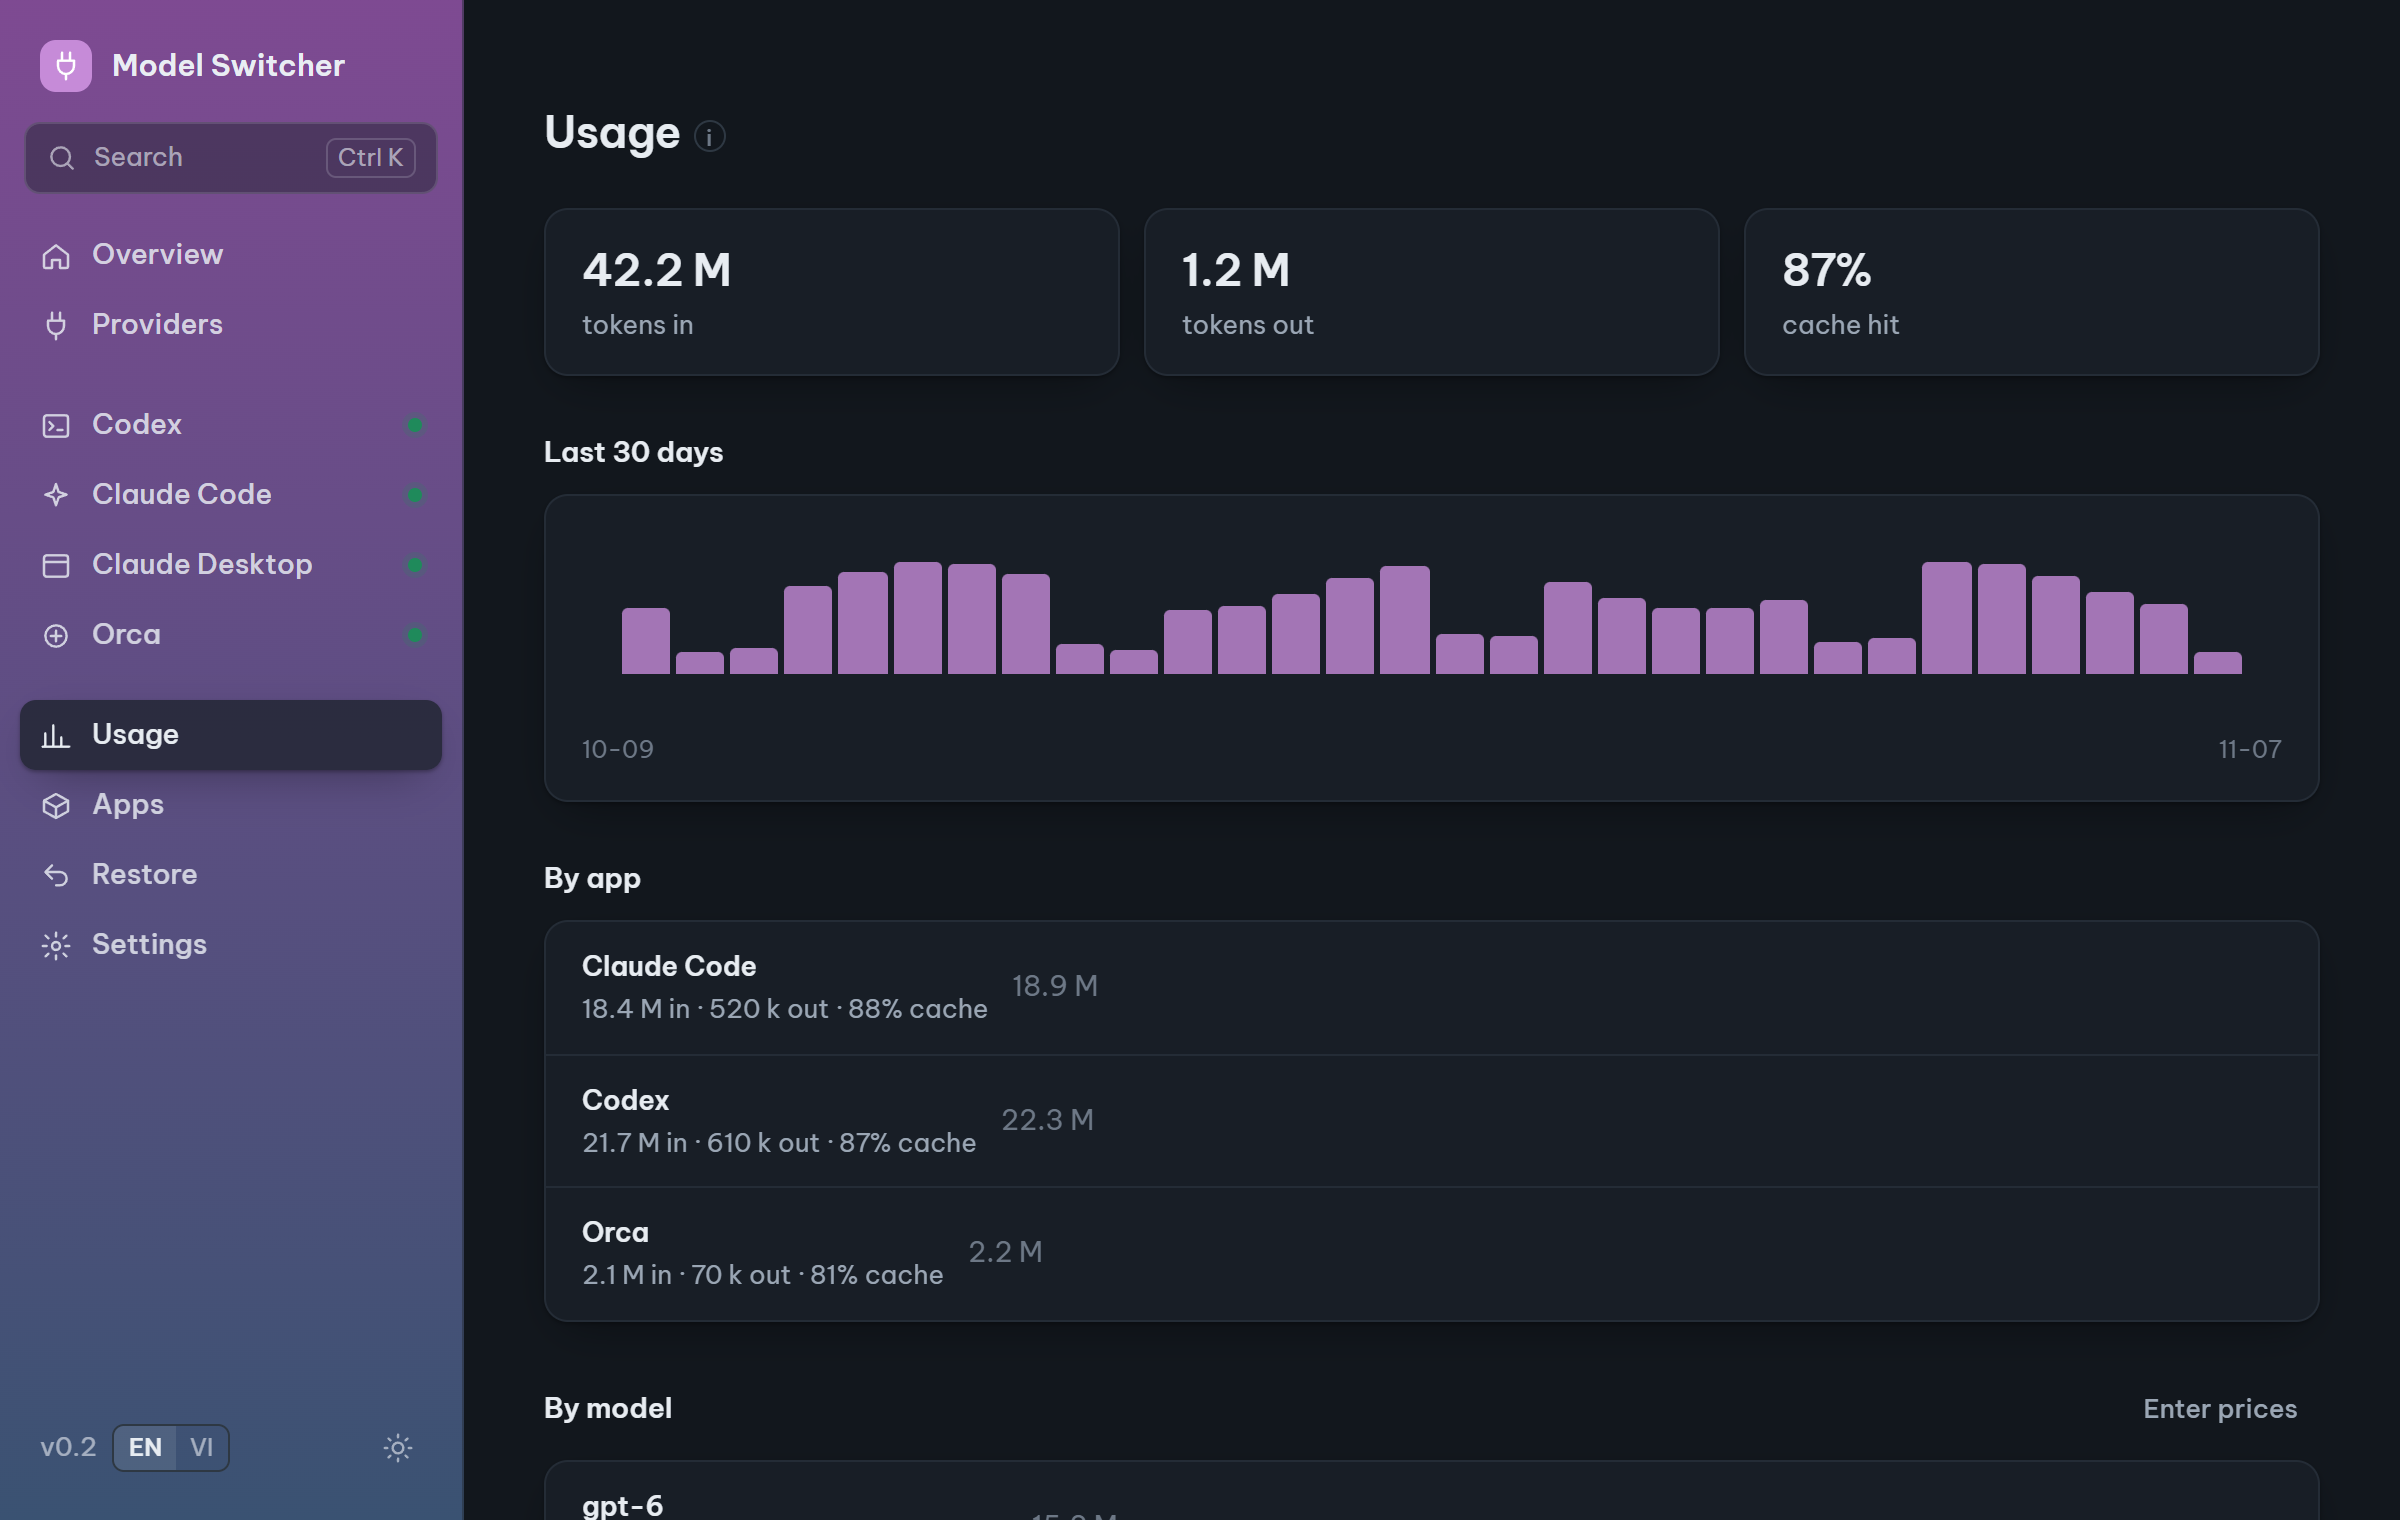
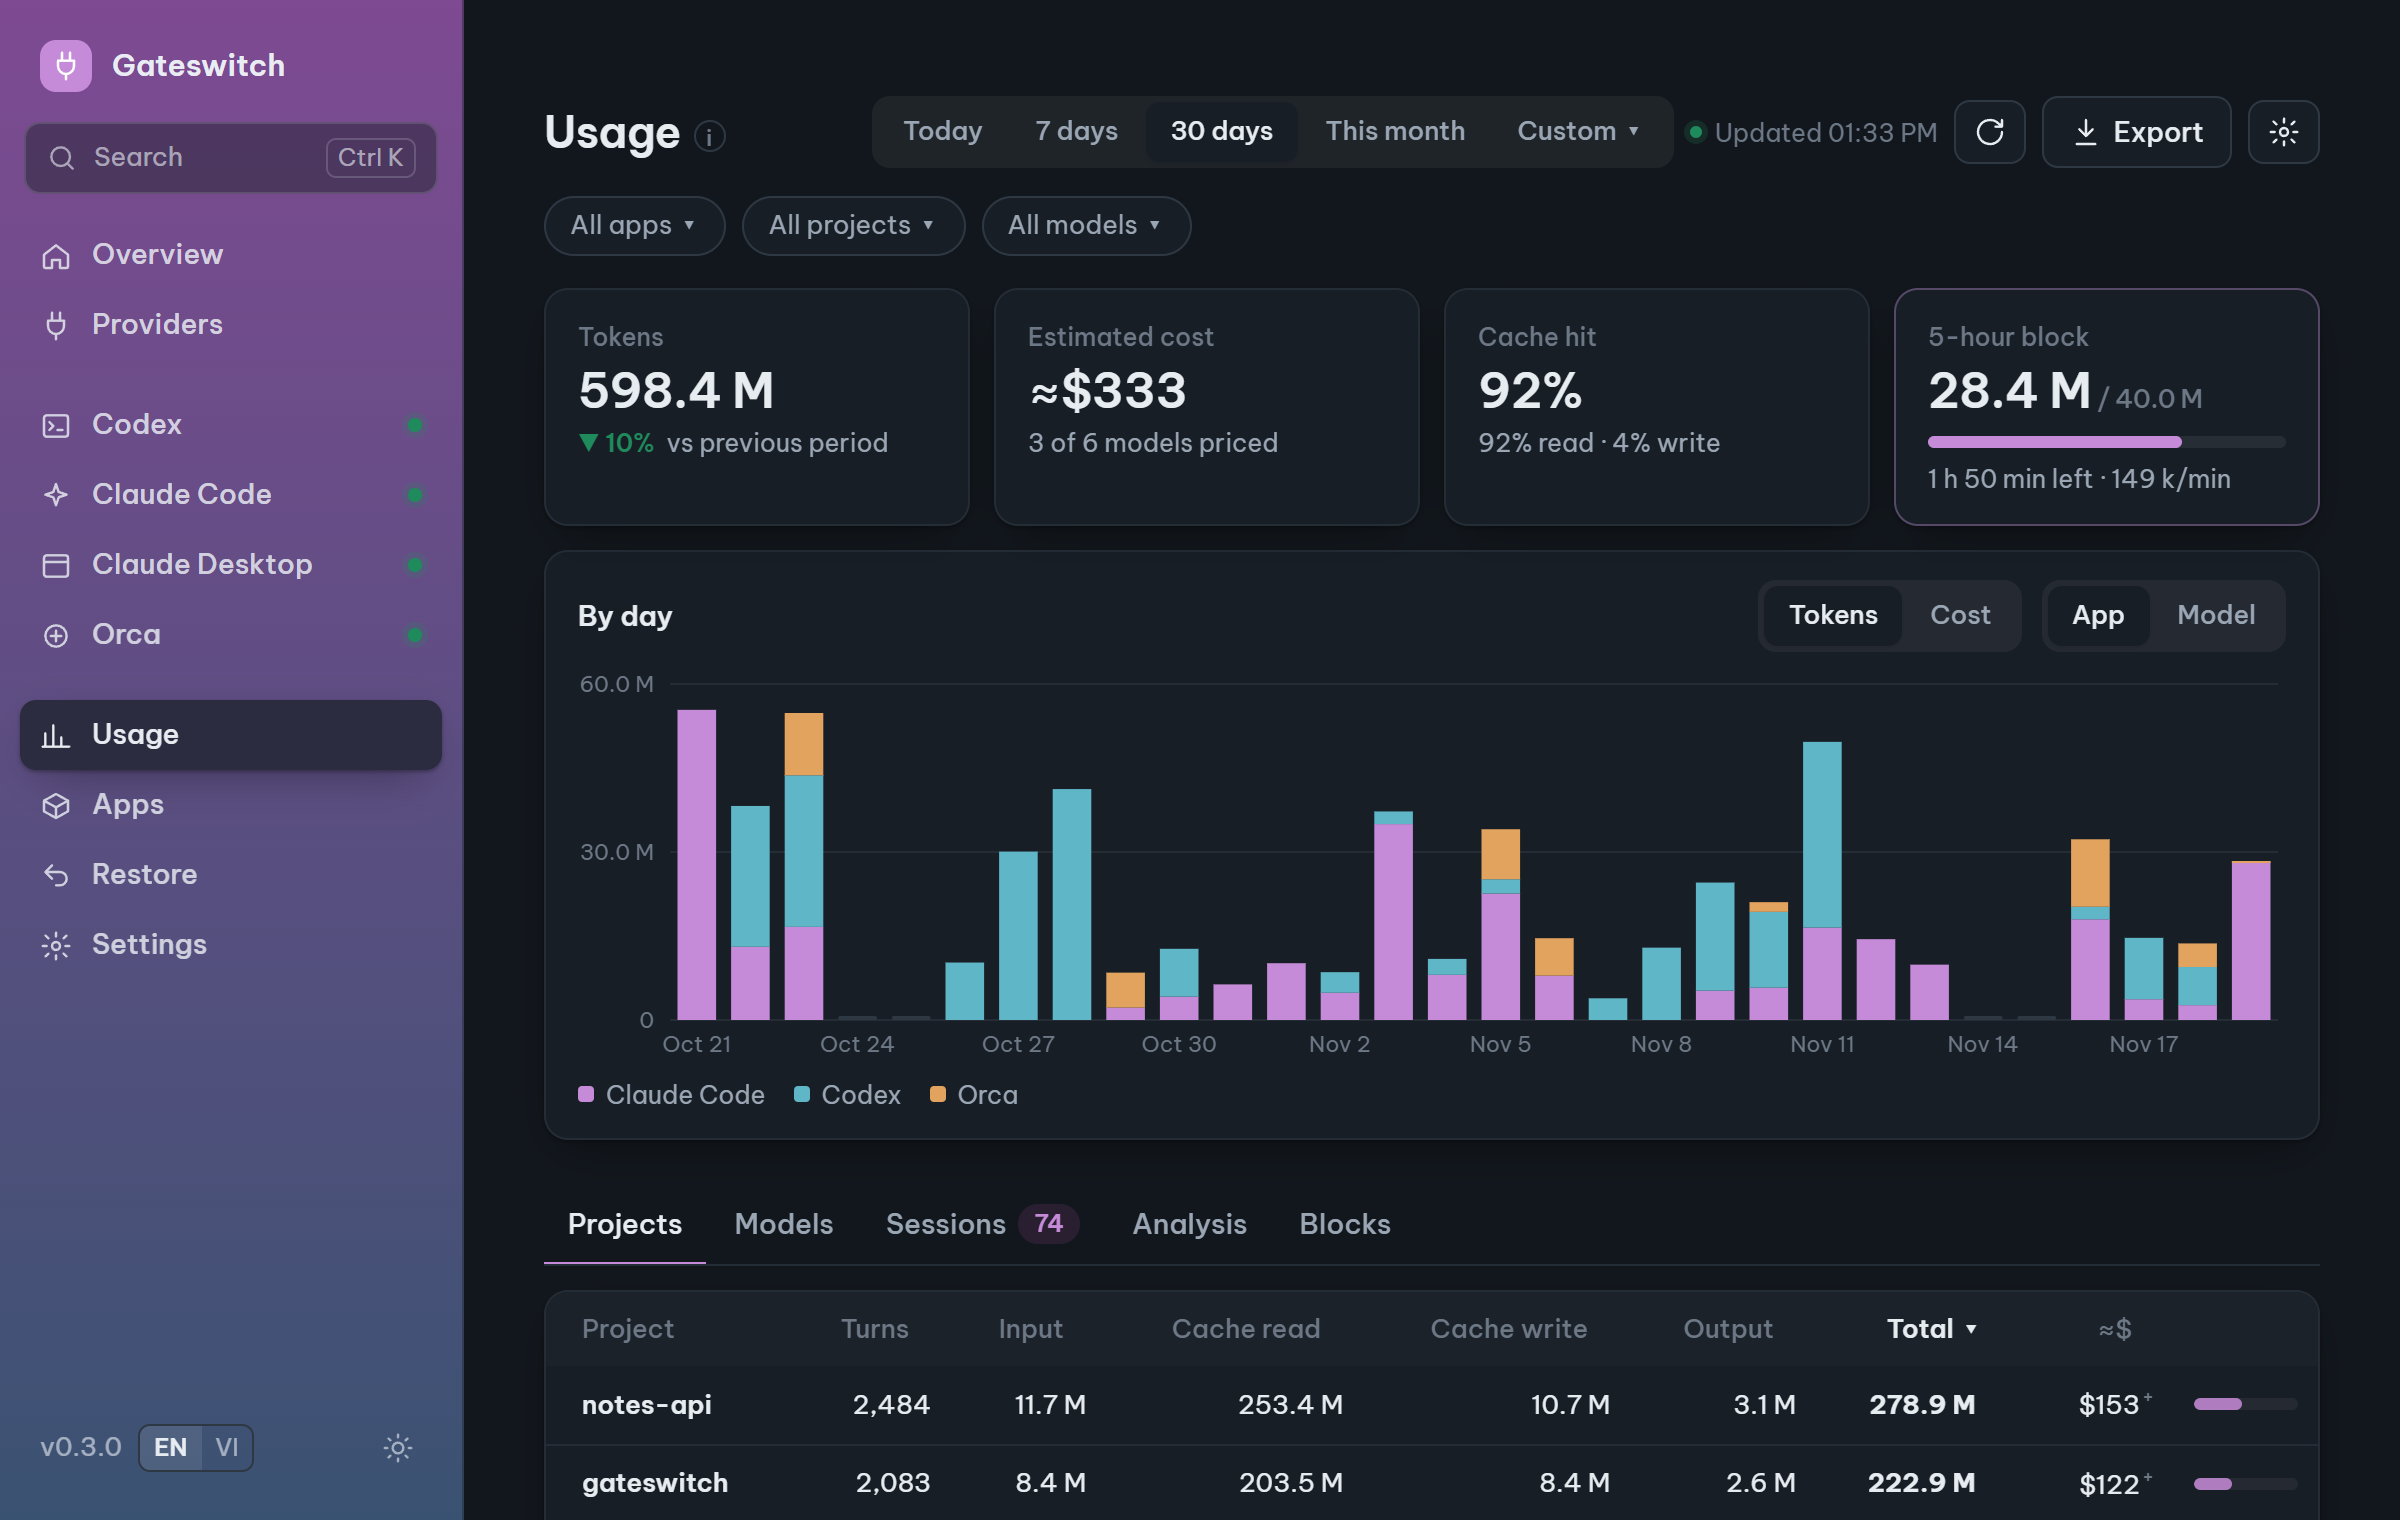
Website and screenshots for 0.3.0
New Usage screenshot (sample data), cards for quota watch, tray and
mini window, and Codex effort levels.

diff --git a/site/index.html b/site/index.html
@@ -207,7 +207,7 @@ footer a:hover{color:var(--ink)}
   <header class="hero">
     <div class="glow" aria-hidden="true"></div>
     <div class="wrap">
-      <a class="pill" href="https://github.com/EK0720/gateswitch/releases/latest" rel="noopener"><b data-i="hero.new">New</b><span data-i="hero.pill">One-click updates, signed and verified</span> →</a>
+      <a class="pill" href="https://github.com/EK0720/gateswitch/releases/latest" rel="noopener"><b data-i="hero.new">New</b><span data-i="hero.pill">0.3: usage dashboard, tray and quota alerts</span> →</a>
       <h1><span data-i="hero.t1">Any AI gateway.</span><br><span class="grad" data-i="hero.t2">Every coding app.</span></h1>
       <p class="sub" data-i="hero.sub">Point Codex, Claude Code, Claude Desktop and Orca at your LiteLLM, OpenRouter or company gateway in one click. Test models first, and undo anything.</p>
       <div class="cta">
@@ -277,8 +277,23 @@ footer a:hover{color:var(--ink)}
         <div class="card media span3 reveal">
           <div class="ico"><svg viewBox="0 0 24 24" fill="none" stroke="currentColor" stroke-width="1.8" stroke-linecap="round" stroke-linejoin="round"><path d="M4 20V10m6 10V4m6 16v-7m4 7H2"/></svg></div>
           <h3 data-i="f.usage.h">Usage without uploads</h3>
-          <p data-i="f.usage.p">Tokens, cache hit rate and cost estimates, read from logs already on your machine.</p>
+          <p data-i="f.usage.p">Tokens, cache hits and estimated cost by app, project, model and session, with 5-hour blocks and export. Read from logs already on your machine, updated live.</p>
           <img src="assets/usage.png" width="2400" height="1520" loading="lazy" alt="Usage page" data-i-alt="alt.usage">
+        </div>
+        <div class="card span2 reveal">
+          <div class="ico"><svg viewBox="0 0 24 24" fill="none" stroke="currentColor" stroke-width="1.8" stroke-linecap="round" stroke-linejoin="round"><path d="M6 8a6 6 0 0 1 12 0c0 7 3 9 3 9H3s3-2 3-9"/><path d="M10.3 21a1.9 1.9 0 0 0 3.4 0"/></svg></div>
+          <h3 data-i="f.quota.h">Know when quota is back</h3>
+          <p data-i="f.quota.p">Out of quota? Gateswitch checks again at the reset time the gateway announces and tells you when the model works again.</p>
+        </div>
+        <div class="card span2 reveal">
+          <div class="ico"><svg viewBox="0 0 24 24" fill="none" stroke="currentColor" stroke-width="1.8" stroke-linecap="round" stroke-linejoin="round"><rect x="3" y="4" width="18" height="12" rx="2"/><path d="M8 20h8M12 16v4"/></svg></div>
+          <h3 data-i="f.tray.h">Tray and mini window</h3>
+          <p data-i="f.tray.p">Today's tokens in the system tray, an always-on-top mini window, and alerts at 80% and 100% of a 5-hour block. All off until you turn them on.</p>
+        </div>
+        <div class="card span2 reveal">
+          <div class="ico"><svg viewBox="0 0 24 24" fill="none" stroke="currentColor" stroke-width="1.8" stroke-linecap="round" stroke-linejoin="round"><path d="M4 21v-7M4 10V3M12 21v-9M12 8V3M20 21v-5M20 12V3M1 14h6M9 8h6M17 16h6"/></svg></div>
+          <h3 data-i="f.effort.h">Effort levels for Codex</h3>
+          <p data-i="f.effort.p">Turn on low to xhigh in Codex's /model menu for gateways that accept reasoning effort. The capability test tells you if yours does.</p>
         </div>
       </div>
     </div>
@@ -354,7 +369,7 @@ footer a:hover{color:var(--ink)}
 (() => {
   const VI = {
     "nav.features":"Tính năng","nav.how":"Cách dùng","nav.faq":"Hỏi đáp","nav.download":"Tải về",
-    "hero.new":"Mới","hero.pill":"Cập nhật một click, có ký và kiểm tra",
+    "hero.new":"Mới","hero.pill":"0.3: bảng thống kê, khay hệ thống và báo hồi quota",
     "hero.t1":"Gateway AI nào cũng được.","hero.t2":"Mọi app lập trình.",
     "hero.sub":"Trỏ Codex, Claude Code, Claude Desktop và Orca sang LiteLLM, OpenRouter hay gateway công ty chỉ với một click. Test model trước, và hoàn tác được mọi thứ.",
     "hero.dl":"Tải về","hero.src":"Xem mã nguồn","hero.other":"Hệ điều hành khác",
@@ -367,8 +382,11 @@ footer a:hover{color:var(--ink)}
     "f.keys.h":"Key của bạn vẫn là của bạn","f.keys.p":"Lưu trong keychain của hệ điều hành, được che trong log, lỗi và báo cáo. Không tài khoản, không thu thập dữ liệu.",
     "f.doc.h":"Doctor sửa các lỗi kinh điển","f.doc.p":"HTTP 400 <code>reasoning_effort</code>, biến môi trường cũ, config hỏng, proxy và policy quản lý, sửa bằng một click.",
     "f.upd.h":"Cập nhật một click","f.upd.p":"App báo khi có bản mới. Gói cập nhật được ký và kiểm tra trước khi cài.",
+    "f.quota.h":"Biết khi nào quota hồi","f.quota.p":"Hết quota? Gateswitch kiểm tra lại đúng giờ gateway báo reset và báo bạn khi model chạy lại được.",
+    "f.tray.h":"Khay hệ thống và cửa sổ nhỏ","f.tray.p":"Số token hôm nay trên khay hệ thống, cửa sổ nhỏ luôn nổi, và cảnh báo khi khối 5 giờ đạt 80% và 100%. Tất cả đều tắt cho tới khi bạn bật.",
+    "f.effort.h":"Mức effort cho Codex","f.effort.p":"Bật low đến xhigh trong menu /model của Codex với gateway nhận reasoning effort. Bài kiểm tra khả năng cho biết gateway của bạn có nhận không.",
     "f.codex.h":"Codex, setup đúng cách","f.codex.p":"Model của gateway trong menu /model, tên provider trung tính, và tạo ảnh qua gateway của bạn.",
-    "f.usage.h":"Thống kê mà không cần tải lên","f.usage.p":"Token, tỉ lệ cache và ước tính chi phí, đọc từ log có sẵn trên máy bạn.",
+    "f.usage.h":"Thống kê mà không cần tải lên","f.usage.p":"Token, tỉ lệ cache và chi phí ước tính theo app, project, model và phiên, kèm khối 5 giờ và xuất file. Đọc từ log có sẵn trên máy bạn, cập nhật trực tiếp.",
     "h.eyebrow":"Cách dùng","h.h2":"Chạy được trong một phút",
     "h.1.h":"Thêm gateway","h.1.p":"Base URL và API key, hoặc nhập preset. Key được cất thẳng vào keychain của hệ điều hành.",
     "h.2.h":"Test model","h.2.p":"Tải danh sách model và xem model nào thật sự chạy trước khi dùng.",
